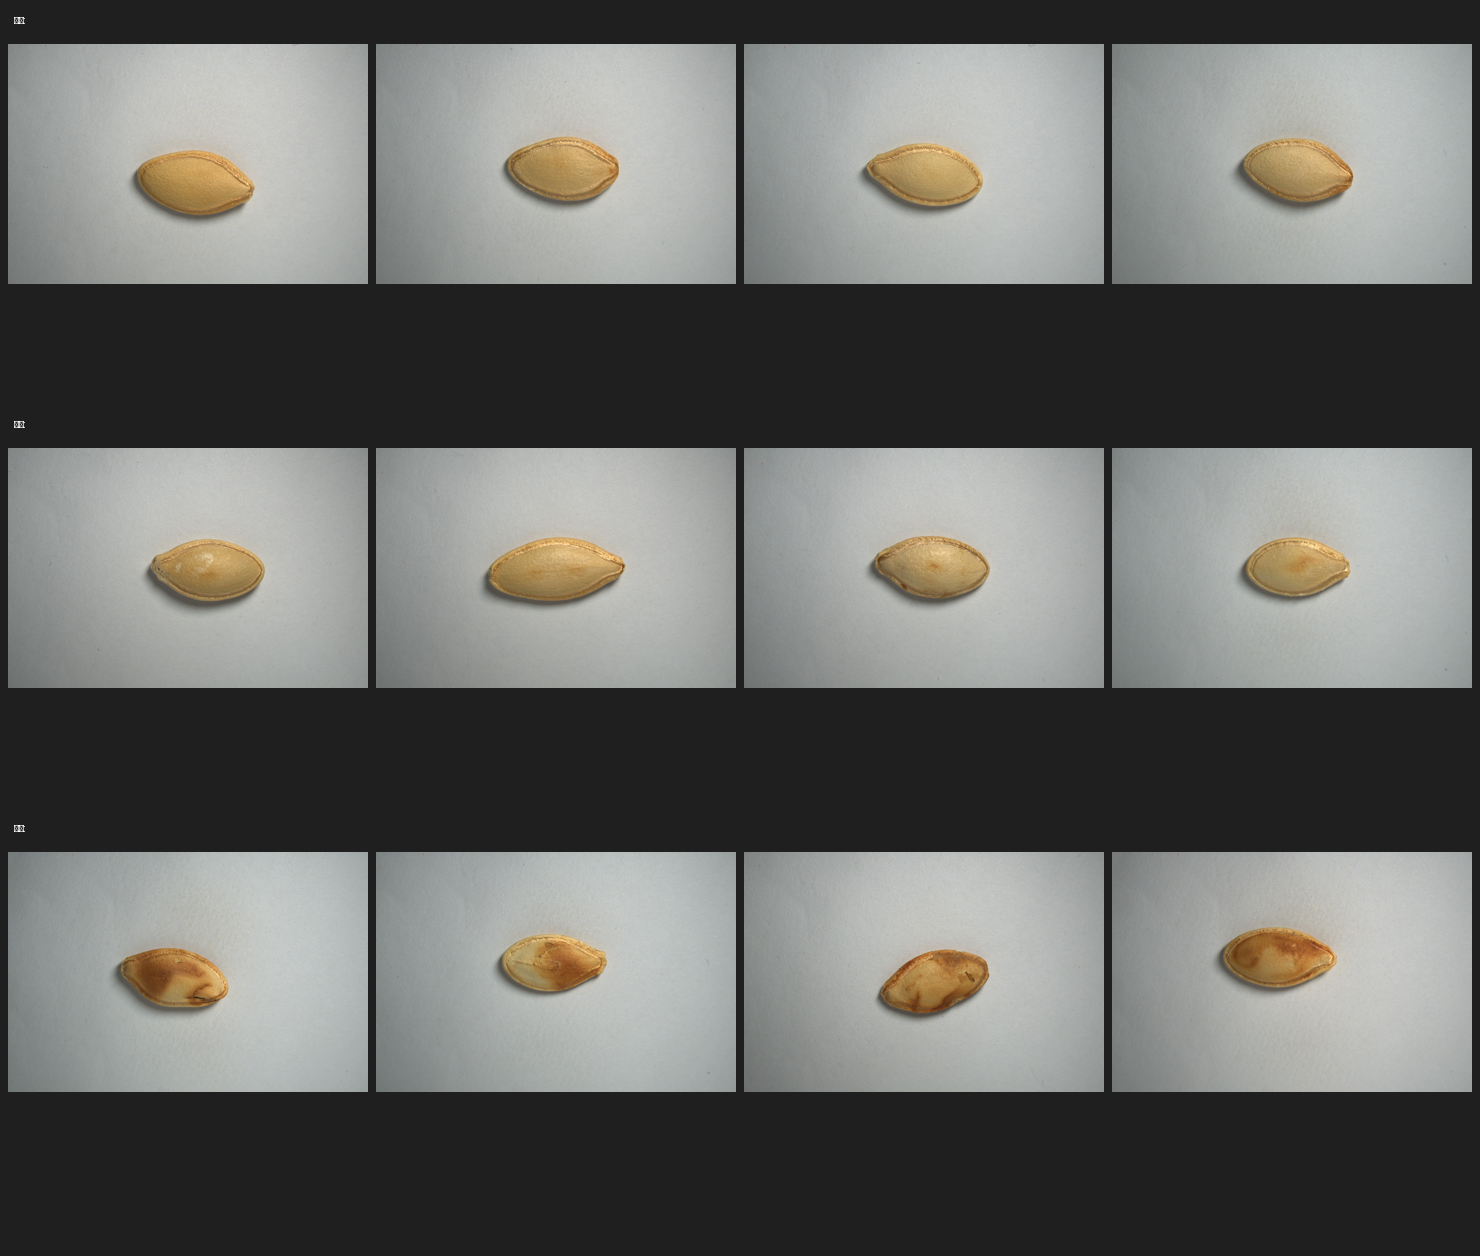
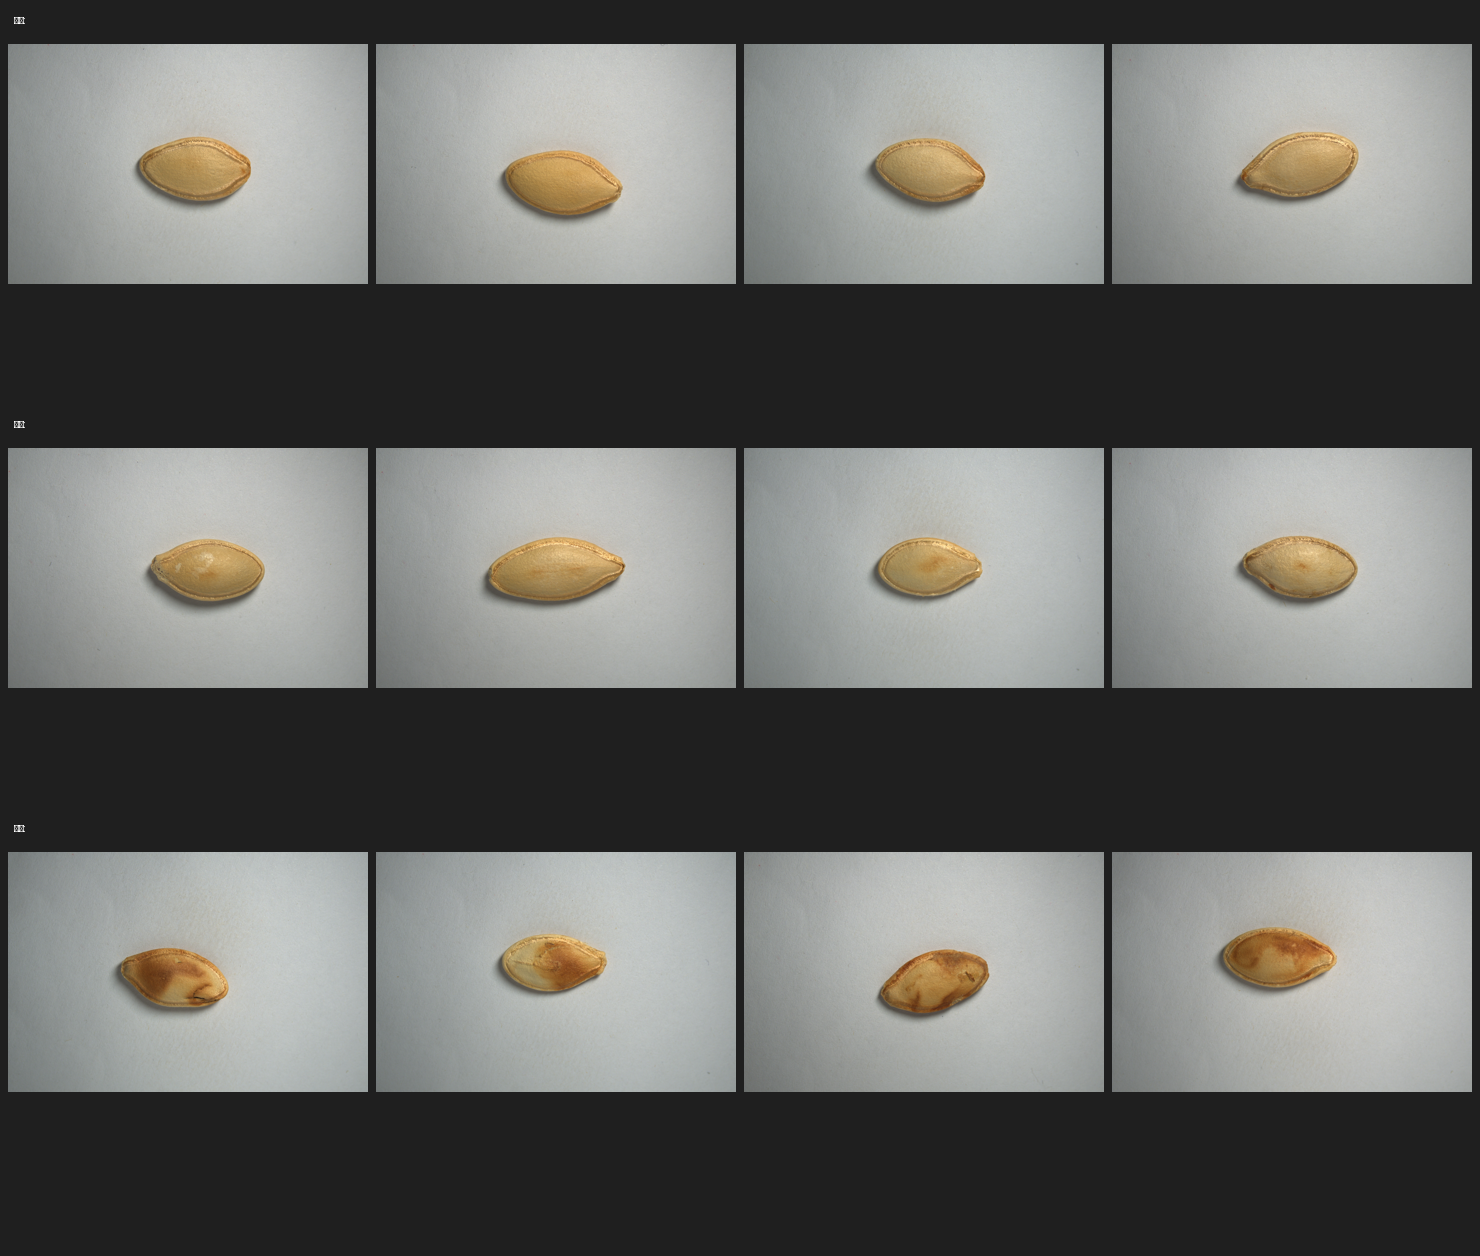
K 折再提升：fold_2 刷新、诚实水平 92.33%、Top-3 全 0.95
- K 折第 11 回：fold_2 从 90.83% 提升到 91.67%，诚实水平 92.33% ± 1.43%
- Top-3 全部达到 95.00%（_3 从 94.17% 刷到 95%）
- 各类 F1：二级 87.92%、三级 92.28%（均微升）
- 失败分析：全量分歧 3 → 4 张（fold_2 更新后多一张 4:4 边界平局，属正常摆动）
- 8 模型软投票：验证 98.33% 不变、全量 99.33%
- 训练日志 89 次、K 折 11 轮，更新三份文档

diff --git a/项目完整总结.md b/项目完整总结.md
@@ -31,9 +31,9 @@
 | 类别分布 | 一级 220 · 二级 201 · 三级 179 |
 | **单模型最佳（验证）** | **95.00%**（留出验证准确率） |
 | **8 模型软投票（验证）** | **98.33%**（部署推理口径，120 张留出集） |
-| **8 模型软投票（全量）** | **99.50%**（仅拟合检查，597/600 与人标一致） |
-| **K 折均值（诚实水平）** | **92.17% ± 1.55%**（留出验证，各折取历史最优） |
-| 各类 F1（K 折） | 一级 95.83% · **二级 87.64%** · 三级 92.03% |
+| **8 模型软投票（全量）** | **99.33%**（仅拟合检查，596/600 与人标一致） |
+| **K 折均值（诚实水平）** | **92.33% ± 1.43%**（留出验证，各折取历史最优） |
+| 各类 F1（K 折） | 一级 95.83% · **二级 87.92%** · 三级 92.28% |
 | 推理 | 8 模型软投票（best + 5 折 + Top-3） |
 | 设备 / 环境 | RTX 4060 Laptop (8.6GB) + CUDA 12.6 + PyTorch 2.12.1 + `C:\Users\LTY\anaconda3\python.exe` |
 
@@ -89,7 +89,7 @@
 | 终审改标 | — | — | `Image_20260806092132771` 改判二级（三级→二级），分布 220/201/179 |
 | K 折第 2 回 | **92.00% ± 1.63%** | 97.03% | 3/5 折提升（fold 2/3/4 → 90.83%），fold 1/5 保留 |
 | 持续训练抽卡 | **93.3% → 94.2% → 95.0%** | 98.2% | 多轮重训刷新榜首，验证首破 95%（08-13） |
-| K 折第 3~7 回 | **92.17% ± 1.55%** | 97.17% | fold 3 → 91.67%，其余折维持历史最优 |
+| K 折第 3~11 回 | **92.33% ± 1.43%** | — | fold 2、3 各提升到 91.67%，Top-3 全 0.95，折间差异收窄 |
 
 ### 数字里程碑
 
@@ -100,16 +100,16 @@
 90.7% ± 2.9% ── K 折第 1 回（真实泛化水平）
 92.5% ── 最终训练（标注定稿，220/200/180）
 92.0% ± 1.6% ── K 折第 2 回（终审改标 1 张后）
-95.0% ── 单模型最佳（持续训练抽卡刷新，Top-3 归档）
-92.2% ± 1.6% ── K 折第 3~7 回（诚实水平）
-98.3% / 99.5% ── 8 模型软投票（部署推理：验证 98.3%，全量 99.5%）
+95.0% ── 单模型最佳（持续训练抽卡刷新，Top-3 全 0.95）
+92.3% ± 1.4% ── K 折第 3~11 回（诚实水平）
+98.3% / 99.3% ── 8 模型软投票（部署推理：验证 98.3%，全量 99.3%）
 ```
 
 ### 关键洞察
 
-1. **中间类（二级）最弱是本质**：F1 87.6%，比两侧低 4~8 个点。一、三级模型几乎无分歧，全部残余错误都压在中边界的「轻微瑕疵」上——这不是调参能救的，是分类标准本身的模糊带。
+1. **中间类（二级）最弱是本质**：F1 87.9%，比两侧低 4~8 个点。一、三级模型几乎无分歧，全部残余错误都压在中边界的「轻微瑕疵」上——这不是调参能救的，是分类标准本身的模糊带。
 2. **标注修正与训练抽卡是两件不同的事**：83.3% → 92.5% 靠两轮标注修正（改的是数据），92.5% → 95.0% 靠持续重训抽卡（改的是随机种子运气）。前者有上限，后者收益递减。
-3. **单次验证分有运气**：单次 95.0% 是某一份随机划分，K 折均值 92.2% ± 1.6%（折间差异 90.8%~95.0%）才是诚实数字。
+3. **单次验证分有运气**：单次 95.0% 是某一份随机划分，K 折均值 92.3% ± 1.4%（折间差异 90.8%~95.0%）才是诚实数字。
 4. **不要追着模型改标注**：复查到 K 折数字干净后即停，再往下追会让人标迁就模型，验证准确率失真。终审只改了 1 张（三级→二级），其余边界分歧保留。
 5. **一级边界可以收敛到完美**：榜首模型一级 precision 从 0.936 练到 1.000，说明「完好 vs 有瑕疵」这一刀切干净是可达到的；真正难的是二级内部「轻微 vs 明显」的细分。
 
@@ -119,6 +119,8 @@
 
 | 工具 | 用途 |
 |------|------|
+| `model_utils.py` | 公共模块：模型构建 / 8 模型加载 / 软投票推理 / transforms / 常量（所有推理入口共用） |
+| `ui_theme.py` | 公共模块：暗色主题颜色 / 字体 / 等级配色（gui / demo / 标注 / 复查共用） |
 | `annotate_3class.py` | 标注 GUI：按键 1/2/3 分拣到类别文件夹，支持断点续标 |
 | `train_3class.py` | 日常训练，自动维护 Top-3 最佳模型（验证准确率排名 + 文件移位对齐） |
 | `train_kfold_3class.py` | 5 折交叉验证，只覆盖更好的折，写 `kfold_log.csv` |
@@ -137,7 +139,7 @@
 
 1. **缓存分辨率要验证，不能拍脑袋**：512 缓存 3 张翻转（99.50%），1024 只有 1 张（99.83%）——分辨率不是越高越好，但要够，用一致率实验定，而不是猜。
 2. **同步缓存绝对不能并发跑**：两个 sync_cache.py 同时写会把 cache_1024 写坏（曾导致 cache 只剩 408/600 张、训练报 `image file is truncated`）。现在脚本带 `.sync_cache.lock` 并发锁 + `repair_cache.py` 兜底修复。
-3. **验证准确率 ≠ 最终成绩**：单次 95.0% 好听，K 折 92.2% ± 1.6% 才是真实水平；折间标准差 1.6% 说明划分运气真实存在。
+3. **验证准确率 ≠ 最终成绩**：单次 95.0% 好听，K 折 92.3% ± 1.4% 才是真实水平；折间标准差 1.4% 说明划分运气真实存在。
 4. **中间类永远是瓶颈**：边界类 F1 天然低于两侧，除非重新定义分级标准，否则这是上限，别反复调参追。
 5. **训练日志/CSV 文件别开着跑训练**：VS Code/Excel 锁定会导致 PermissionError（脚本已做降级处理，但关掉文件更省事）。
 6. **GBK 控制台编码坑**：终端输出中文/emoji 会乱码或崩溃，脚本内用了 [OK]/[WARN] 等纯文本标记规避。
@@ -153,7 +155,7 @@
 | 数据量 | 372 张 | 600 张 |
 | 拍摄曝光 | 过曝（表面凹凸不平） | 略暗即可（表面平滑） |
 | 缓存优化 | 无 | 新增 cache_1024（提速 ~5 倍，实证质量中性） |
-| K 折均值 | 96.18% ± 0.87% | 92.17% ± 1.55% |
+| K 折均值 | 96.18% ± 0.87% | 92.33% ± 1.43% |
 | 代码复用率 | — | 约 90% 模板直接复用，仅改分类数/路径/类别名 |
 
 > **南瓜子准确率低于西瓜子**：主要原因是二级（轻微瑕疵）这类中间带更难，且南瓜子瑕疵更轻微、与完好边界更模糊；不是流程问题——一、三级模型已非常干净（一级边界 precision 1.000）。
@@ -171,12 +173,13 @@
 ├── models/
 │   ├── best_model_3class.pth       # 榜首模型（val 0.9500）
 │   ├── best_model_3class_2.pth     # Top-2（val 0.9500）
-│   ├── best_model_3class_3.pth     # Top-3（val 0.9417）
-│   ├── fold_1.pth ~ fold_5.pth     # K 折模型（投票用，3 为最新）
+│   ├── best_model_3class_3.pth     # Top-3（val 0.9500）
+│   ├── fold_1.pth ~ fold_5.pth     # K 折模型（投票用，2/3 为最新）
 │   └── _best_record / _kfold_record（记录 json）
-├── *.py（10 个工具脚本，见第五节）
-├── training_log.csv         # 58 次训练记录
-└── kfold_log.csv            # 7 轮交叉验证记录
+├── model_utils.py / ui_theme.py    # 公共模块（模型推理 / UI 主题）
+├── *.py（12 个工具脚本，见第五节）
+├── training_log.csv         # 89 次训练记录
+└── kfold_log.csv            # 11 轮交叉验证记录
 ```
 
 ### 部署说明
@@ -191,14 +194,14 @@
 
 > **南瓜子外观质量分类系统** | 独立开发 | 2026.08
 >
-> 基于 PyTorch + ResNet-50 搭建工业视觉自动分级系统，将南瓜子按外观质量分为 3 级。独立完成 600 张数据标注、模型训练、5 折交叉验证与 GUI 部署全流程。通过两轮系统性标注修正将验证准确率从 83.3% 提升至 92.5%，再经多轮重训抽卡刷新至单模型 95.0%（K 折真实泛化水平 92.2% ± 1.6%）；部署用 8 模型软投票在留出验证集上达 98.3%、全量一致率 99.5%；一级（完好）类别 precision 1.000 零误放行，质检安全方向正确。设计了预处理缓存优化（11GB 原始图 → 565MB 缓存，训练提速 5 倍），并用预测一致率实验（99.83%）实证其质量中性。核心经验：小样本 + 模糊边界场景下，标注一致性远比算法调参重要。
+> 基于 PyTorch + ResNet-50 搭建工业视觉自动分级系统，将南瓜子按外观质量分为 3 级。独立完成 600 张数据标注、模型训练、5 折交叉验证与 GUI 部署全流程。通过两轮系统性标注修正将验证准确率从 83.3% 提升至 92.5%，再经多轮重训抽卡刷新至单模型 95.0%（K 折真实泛化水平 92.3% ± 1.4%）；部署用 8 模型软投票在留出验证集上达 98.3%、全量一致率 99.3%；一级（完好）类别 precision 1.000 零误放行，质检安全方向正确。设计了预处理缓存优化（11GB 原始图 → 565MB 缓存，训练提速 5 倍），并用预测一致率实验（99.83%）实证其质量中性；抽象出 model_utils / ui_theme 公共模块统一模型推理与界面主题。核心经验：小样本 + 模糊边界场景下，标注一致性远比算法调参重要。
 
 ---
 
 ## 十、项目数字速览
 
 ```
-📸 拍摄 600 张   🏷 标注 3 级   🧠 训练 58 次
-📊 交叉验证 5 折   🎯 单模型 95.0%   🎲 K折 92.2% ± 1.6%   🤖 部署 98.3%
-⚡ 缓存提速 ~5×   🔍 缓存质量 99.83% 一致   🛠 工具 10 个   🗳 投票模型 8 个
+📸 拍摄 600 张   🏷 标注 3 级   🧠 训练 89 次
+📊 交叉验证 5 折   🎯 单模型 95.0%   🎲 K折 92.3% ± 1.4%   🤖 部署 98.3%
+⚡ 缓存提速 ~5×   🔍 缓存质量 99.83% 一致   🛠 工具 12 个   🗳 投票模型 8 个
 ```

diff --git a/分级标准文档.md b/分级标准文档.md
@@ -49,18 +49,18 @@
 ### 一级（完好）
 | 文件名 | 置信度 |
 |--------|--------|
-| `Image_20260804154139675` | 1.000 |
 | `Image_20260804185640417` | 1.000 |
-| `Image_20260804151414316` | 1.000 |
+| `Image_20260804154139675` | 1.000 |
 | `Image_20260805142719908` | 1.000 |
+| `Image_20260804102354204` | 0.999 |
 
 ### 二级（轻微瑕疵）
 | 文件名 | 置信度 |
 |--------|--------|
 | `Image_20260804094840424` | 1.000 |
 | `Image_20260804101457069` | 1.000 |
-| `Image_20260804105928168` | 1.000 |
 | `Image_20260805184918730` | 0.999 |
+| `Image_20260804105928168` | 0.999 |
 
 ### 三级（明显瑕疵）
 | 文件名 | 置信度 |
@@ -74,9 +74,9 @@
 
 ---
 
-## 三、边界情况（模型与人工不一致的 3 张）
+## 三、边界情况（模型与人工不一致的 4 张）
 
-对全部 600 张做 8 模型软投票 vs 人工标注对比，3 张不一致（597/600 = 99.5% 一致）。分两类：
+对全部 600 张做 8 模型软投票 vs 人工标注对比，4 张不一致（596/600 = 99.3% 一致）。分两类：
 
 ### A. 高置信分歧（2 张）— 已复核：模型偏严，人工标准正确
 
@@ -84,22 +84,23 @@
 
 | 文件名 | 最终判定 | 说明 |
 |--------|---------|------|
-| `Image_20260805140713472` | **二级**（维持） | 模型 6/8 票三级，置信度 0.669，过严 |
-| `Image_20260806100413192` | **二级**（维持） | 模型 5/8 票三级，置信度 0.600，过严 |
+| `Image_20260806100413192` | **二级**（维持） | 模型 5/8 票三级，置信度 0.615，过严 |
+| `Image_20260805140713472` | **二级**（维持） | 模型 5/8 票三级，置信度 0.606，过严 |
 
 > **结论**：模型存在轻微的「从严」倾向——对某类轻微瑕疵会判成明显瑕疵。品控方向上这是**安全**的（宁可多挑出、不放过），可接受。若产线需要降低误拒率，应对这类瑕疵专门补充二级样本再训练。
 
-### B. 边界分歧（1 张）— 标准模糊带，正常
+### B. 边界分歧（2 张）— 标准模糊带，正常
 
-1 张投票接近平局（4:4）、置信度 <60%，说明这个样本本身就在两个等级的边缘，**任何判定都有主观成分**。这不是错误，是分级标准固有的模糊区：
+2 张投票接近平局（4:4）、置信度 <60%，说明这些样本本身就在两个等级的边缘，**任何判定都有主观成分**。这不是错误，是分级标准固有的模糊区：
 
 | 文件名 | 人标 | 模型 | 投票 | 置信度 |
 |--------|------|------|------|--------|
-| `Image_20260805184123268` | 二级 | 三级 | 4:4 | 0.539 |
+| `Image_20260805184123268` | 二级 | 三级 | 4:4 | 0.529 |
+| `Image_20260804154636089` | 二级 | 一级 | 4:4 | 0.520 |
 
-> **方向统计**：3 张分歧全部落在人标「二级」上，且模型全部判三级（偏严）。轻微瑕疵本就是最难的边界，模型对它最不稳定，符合预期。
+> **方向统计**：4 张分歧全部落在人标「二级」上——3 张模型判三级（偏严），1 张判一级（偏松）。轻微瑕疵本就是最难的边界，模型对它最不稳定，符合预期。
 >
-> **相比上一版（6 张分歧）收敛的原因**：重新训练后榜首模型验证准确率从 92.5% 升到 95.0%，8 模型集成把 3 张原边界分歧（`Image_20260806093311710`、`Image_20260804095914169`、`Image_20260806094758314`）正确判回了二级。剩余 3 张集中在二级→三级这一种方向，说明模型现在只对「轻微瑕疵 vs 明显瑕疵」的极窄边界仍有争议，一级/二级边界已完全收敛。
+> **相比上一版（3 张分歧）的变化**：fold_2 折模型更新后，K 折诚实水平从 92.17% 升到 92.33%，但全量集成多出一张 `Image_20260804154636089`（二级→一级，4:4 平局）。这不是退步——新增的这张是 conf 0.520 的平局边界样本，本就属于「拿不准」的模糊区，方向在「偏严/偏松」之间摆动是正常的。核心的安全性质（一级零误放行）在验证集上仍保持 1.000。
 >
 > 处置原则：这类图**不要反复改标**——改一次，另一批标注者可能又改回来。标准定了就守住，模型和人都会在这些图上犯错，属于可接受范围。
 

diff --git a/README.md b/README.md
@@ -13,8 +13,8 @@
 | 类别分布 | 一级 220 · 二级 201 · 三级 179 |
 | **单模型最佳（验证）** | **95.00%** |
 | **8 模型软投票（验证）** | **98.33%**（部署推理口径） |
-| **8 模型软投票（全量）** | **99.50%**（拟合检查） |
-| **K 折均值** | **92.17% ± 1.55%**（真实泛化水平） |
+| **8 模型软投票（全量）** | **99.33%**（拟合检查） |
+| **K 折均值** | **92.33% ± 1.43%**（真实泛化水平） |
 | 推理 | **8 模型软投票**（最佳 + 5 折 + Top-3，概率取平均） |
 | 设备 | RTX 4060 Laptop (8.6GB) + CUDA 12.6 + PyTorch 2.12.1 |
 
@@ -35,7 +35,7 @@
 ├── model_utils.py          # 公共模型、预处理与软投票逻辑
 ├── ui_theme.py             # 图形界面共用主题与颜色配置
 ├── requirements.txt        # 可复现的 Python 依赖清单
-├── analysis/              # 失败分析：3 张人机分歧 + 每类典型示例
+├── analysis/              # 失败分析：4 张人机分歧 + 每类典型示例
 ├── training_log.csv       # 训练记录
 ├── kfold_log.csv          # 5 折交叉验证记录
 └── 项目完整总结.md          # 完整项目报告
